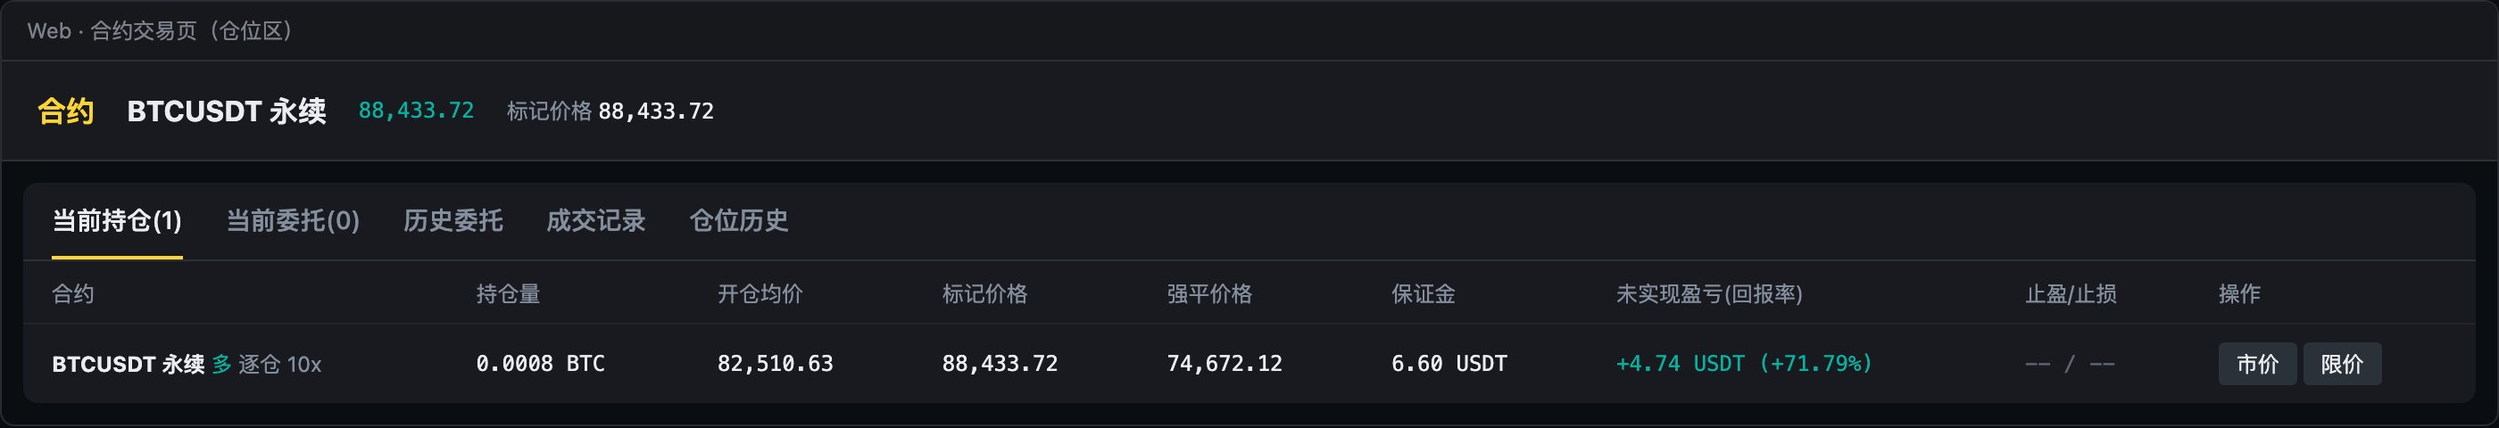
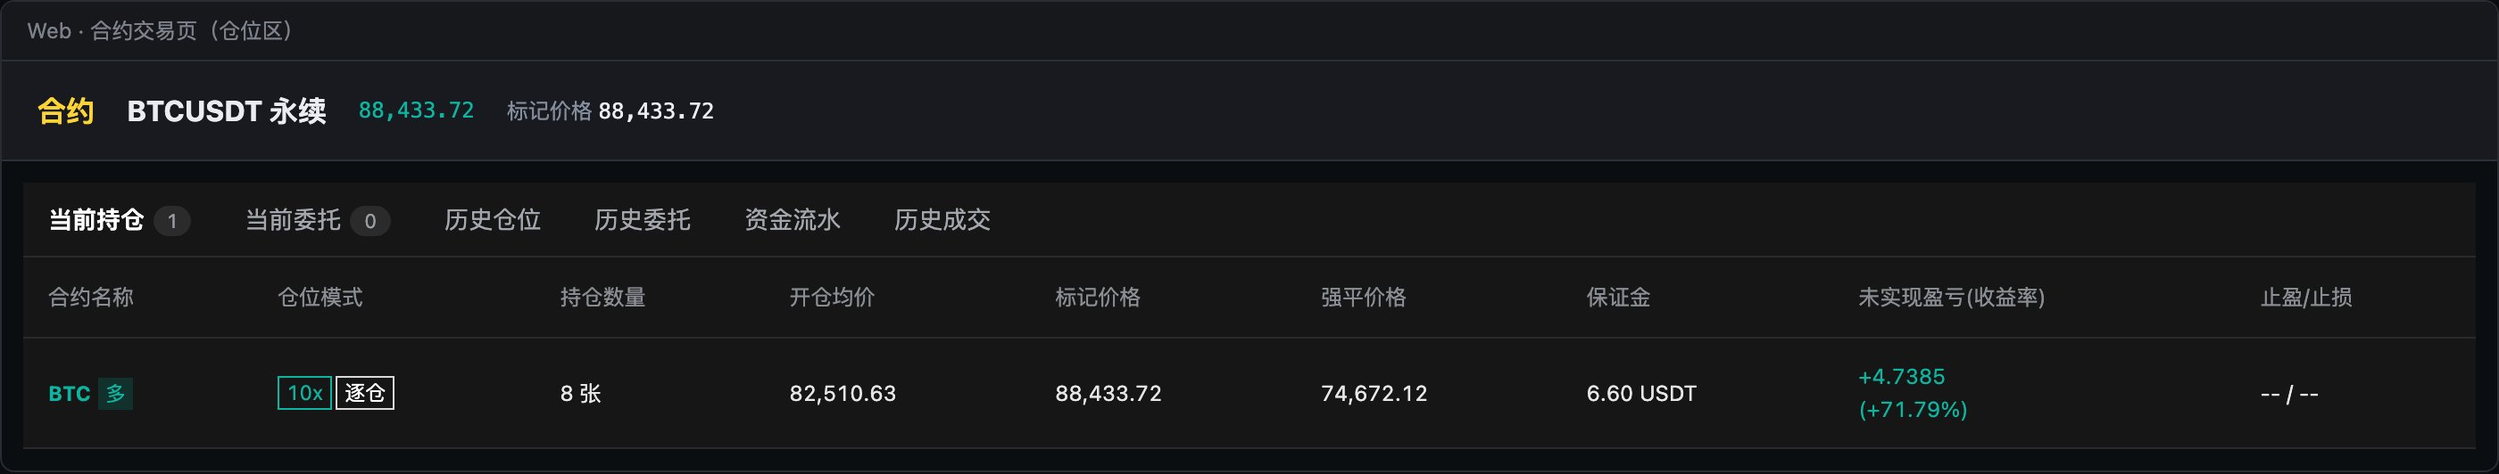
change: Web仓位区按现有页面重做(历史仓位/历史委托三子页签/资金流水/历史成交),止盈止损被撤状态'因ADL撤销';PRD V1.9 同步并扩充Web截图

diff --git a/1009-中台ADL减仓.html b/1009-中台ADL减仓.html
@@ -196,6 +196,33 @@ table.grid{border-collapse:separate;border-spacing:0;min-width:2900px;width:100%
 .u-warn{color:#f0b44a;background:#2e2410;border:1px dashed #8a6a1f;border-radius:3px;padding:0 5px;font-size:11px;white-space:nowrap}
 .side-tag-l{color:var(--up)}.side-tag-s{color:var(--down)}
 
+
+/* ===== Web 仓位区：按现有 Web 截图 ===== */
+.e-web .u-panel{background:#161616;border-radius:0;margin:0}
+.e-web .u-tabs{gap:30px;height:42px;align-items:center;border-bottom:1px solid #2a2a2a;padding:0 14px}
+.e-web .u-tabs button{font-size:13.5px;color:#a3a6ad;padding:0;border:none;font-weight:400}
+.e-web .u-tabs button.on{color:#fff;font-weight:700;border:none}
+.e-web .u-tabs .bdg{display:inline-block;margin-left:5px;background:#2b2b2b;color:#9a9da3;font-size:11px;border-radius:9px;padding:0 8px;line-height:17px;font-weight:400}
+.wsub{display:flex;border-bottom:1px solid #2a2a2a}
+.wsub button{padding:9px 16px;font-size:13px;color:#a3a6ad;border-right:1px solid #2a2a2a}
+.wsub button.on{background:#232323;color:#fff;font-weight:700}
+.wt{width:100%;border-collapse:collapse;font-size:12px}
+.wt th{color:#8a8d93;font-weight:400;text-align:left;padding:14px 14px;border-bottom:1px solid #2a2a2a;white-space:nowrap}
+.wt td{color:#e6e6e6;padding:12px 14px;border-bottom:1px solid #2a2a2a;white-space:nowrap;vertical-align:middle;line-height:1.55;font-variant-numeric:tabular-nums}
+.wt tr.hl td{background:rgba(243,154,55,.05)}
+.wt .sym{font-weight:700;color:#0fb4a0;font-size:11.5px}
+.wt .sym.s{color:#8e63df}
+.wt .sd{display:inline-block;margin-left:4px;font-size:11.5px;padding:0 4px;line-height:18px;background:#12302c;color:#0fb4a0}
+.wt .sd.s{background:#2a2142;color:#8e63df}
+.wt .lev{display:inline-block;border:1px solid #0fb4a0;color:#0fb4a0;font-size:11.5px;padding:0 4px;line-height:17px}
+.wt .lev.s{border-color:#8e63df;color:#8e63df}
+.wt .mode{display:inline-block;border:1px solid #d9d9d9;color:#fff;font-size:11.5px;padding:0 4px;line-height:17px;margin-left:2px}
+.wt .up{color:#0fb4a0}.wt .dn{color:#8e63df}
+.wt .cp{color:#526fff;margin-left:4px;font-size:11px}
+.wt .ic{color:#8a8d93;font-size:10px;margin-left:3px}
+.wt .det{border:1px solid #d9d9d9;color:#fff;padding:5px 12px;font-size:12px;background:transparent}
+.wt .pct{color:#0fb4a0}
+.wt .adl-chip{margin-left:4px}
 /* ===== 用户端 App ===== */
 .a-root{background:#0b0c0f;min-height:100vh;padding:16px 20px 60px;min-width:1280px;color:#e8e9ec;font-size:12px}
 .a-wrap{display:flex;gap:28px;align-items:flex-start;justify-content:center}
@@ -420,7 +447,7 @@ table.grid{border-collapse:separate;border-spacing:0;min-width:2900px;width:100%
    </div>
    <div class="u-panel">
     <div class="u-tabs" id="uTabs">
-     <button data-t="pos" class="on">当前持仓</button><button data-t="open">当前委托</button><button data-t="hist">历史委托</button><button data-t="fill">成交记录</button><button data-t="phist">仓位历史</button>
+     <button data-t="pos" class="on">当前持仓</button><button data-t="open">当前委托</button><button data-t="phist">历史仓位</button><button data-t="hist">历史委托</button><button data-t="flow">资金流水</button><button data-t="fill">历史成交</button>
     </div>
     <div id="uBody" style="overflow-x:auto"></div>
    </div>
@@ -753,7 +780,7 @@ const A={entry:82510.63,mark:88433.72,lev:10,mmr:0.005,cs:0.0001};
 const AS={before:{z:108,light:5,ord:1},partial:{z:8,light:5,ord:0},full:{z:0,light:0,ord:0}};
 const ADLZ={partial:100,full:108};
 const TIP_U='<span class="tip">自动减仓（ADL）：系统按标记价格减少您的部分或全部仓位，本次减仓不收取手续费，减仓后您可随时重新开仓。<br><span class="u-warn">⚠ 文案 / 客服口径待确认（Q9）</span></span>';
-let aState='before',aHTab='ord',uT='pos';
+let aState='before',aHTab='ord',uT='pos',uSub='lm';
 const af=(n,d=2)=>Number(n).toLocaleString('en-US',{minimumFractionDigits:d,maximumFractionDigits:d});
 const bz=z=>+(z*A.cs).toFixed(6);
 function pm(z){const q=bz(z),val=q*A.mark,margin=A.entry*q/A.lev,up=(A.mark-A.entry)*q;return{q,val,margin,up,roe:up/margin*100,liq:A.entry*(1-1/A.lev+A.mmr),mr:(margin+up)/(val*A.mmr)*100}}
@@ -815,25 +842,42 @@ function aHRender(){
   $('aHBody').innerHTML=H[aHTab];
 }
 function uRender(){
-  const st=AS[aState],done=aState!=='before',z=ADLZ[aState]||0,pnl=(A.mark-A.entry)*bz(z),m=pm(st.z);
-  document.querySelectorAll('#uTabs button').forEach(b=>{b.classList.toggle('on',b.dataset.t===uT);if(b.dataset.t==='pos')b.textContent=`当前持仓(${st.z?1:0})`;if(b.dataset.t==='open')b.textContent=`当前委托(${st.ord})`});
+  const st=AS[aState],done=aState!=='before',z=ADLZ[aState]||0,q=bz(z),pnl=(A.mark-A.entry)*q,roe=(A.mark-A.entry)/A.entry*A.lev*100,m=pm(st.z),T='2026-10-09 13:40:12',full=aState==='full';
+  const NM={pos:'当前持仓',open:'当前委托',phist:'历史仓位',hist:'历史委托',flow:'资金流水',fill:'历史成交'};
+  document.querySelectorAll('#uTabs button').forEach(b=>{const t=b.dataset.t;b.classList.toggle('on',t===uT);b.innerHTML=NM[t]+(t==='pos'?`<span class="bdg">${st.z?1:0}</span>`:t==='open'?`<span class="bdg">${st.ord}</span>`:'')});
   const chip=t=>`<span class="adl-chip">${t} ⓘ${TIP_U}</span>`;
   const empty=t=>`<div class="u-empty"><div style="font-size:28px">📄</div>${t}</div>`;
+  const sym=(sd,cls='')=>`<span class="sym ${cls}">BTC</span><span class="sd ${cls}">${sd}</span>`;
+  const lev=(x,cls='')=>`<span class="lev ${cls}">${x}x</span><span class="mode">逐仓</span>`;
+  const cp=id=>`${id}<span class="cp">⧉</span>`;
   let h='';
-  if(uT==='pos'){h=st.z?`<table class="u-tbl"><thead><tr><th>合约</th><th>持仓量</th><th>开仓均价</th><th>标记价格</th><th>强平价格</th><th>保证金</th><th>未实现盈亏(回报率)</th><th>止盈/止损</th><th>操作</th></tr></thead><tbody><tr>
-     <td><b>BTCUSDT 永续</b> <span class="side-tag-l">多</span> <span style="color:var(--tx2)">逐仓 10x</span></td><td class="num">${bz(st.z)} BTC</td><td class="num">${af(A.entry)}</td><td class="num">${af(A.mark)}</td><td class="num">${af(m.liq)}</td><td class="num">${af(m.margin)} USDT</td>
-     <td class="num u-up">+${af(m.up)} USDT (+${af(m.roe)}%)</td><td class="num" style="color:${st.ord?'var(--tx)':'var(--tx3)'}">${st.ord?'95,000.00 / --':'-- / --'}</td><td><button class="u-btn">市价</button> <button class="u-btn">限价</button></td></tr></tbody></table>`:empty('暂无持仓')}
-  if(uT==='open'){h=st.ord?`<table class="u-tbl"><thead><tr><th>时间</th><th>合约</th><th>类型</th><th>方向</th><th>触发价</th><th>数量</th><th>操作</th></tr></thead><tbody><tr><td class="num">2026-10-02 09:16:02</td><td>BTCUSDT 永续</td><td>止盈</td><td class="side-tag-s">平多</td><td class="num">95,000.00</td><td class="num">0.0108 BTC</td><td><span class="u-link">撤单</span></td></tr></tbody></table>`:empty('暂无委托')}
-  if(uT==='hist'){h=`<table class="u-tbl"><thead><tr><th>时间</th><th>合约</th><th>订单类型</th><th>方向</th><th>委托价</th><th>成交均价</th><th>委托量</th><th>成交量</th><th>状态</th></tr></thead><tbody>
-     ${done?`<tr class="hl"><td class="num">2026-10-09 13:40:12</td><td>BTCUSDT 永续</td><td>${chip('ADL')}</td><td class="side-tag-s">平多</td><td class="num">--</td><td class="num">${af(A.mark)}</td><td class="num">${bz(z)} BTC</td><td class="num">${bz(z)} BTC</td><td>已成交</td></tr>
-     <tr><td class="num">2026-10-09 13:40:12</td><td>BTCUSDT 永续</td><td>止盈</td><td class="side-tag-s">平多</td><td class="num">95,000.00</td><td class="num">--</td><td class="num">0.0108 BTC</td><td class="num">0 BTC</td><td>已撤销 <span style="color:var(--adl)">· 因 ADL</span></td></tr>`:''}
-     <tr><td class="num">2026-10-02 09:15:40</td><td>BTCUSDT 永续</td><td>市价</td><td class="side-tag-l">开多</td><td class="num">--</td><td class="num">${af(A.entry)}</td><td class="num">0.0108 BTC</td><td class="num">0.0108 BTC</td><td>已成交</td></tr></tbody></table>`}
-  if(uT==='fill'){h=`<table class="u-tbl"><thead><tr><th>时间</th><th>合约</th><th>订单类型</th><th>方向</th><th>成交价</th><th>成交量</th><th>手续费</th><th>角色</th><th>已实现盈亏</th></tr></thead><tbody>
-     ${done?`<tr class="hl"><td class="num">2026-10-09 13:40:12</td><td>BTCUSDT 永续</td><td>${chip('ADL')}</td><td class="side-tag-s">平多</td><td class="num">${af(A.mark)}</td><td class="num">${bz(z)} BTC</td><td class="num">0 USDT</td><td style="color:var(--tx3)">--</td><td class="num u-up">+${af(pnl)} USDT</td></tr>`:''}
-     <tr><td class="num">2026-10-02 09:15:40</td><td>BTCUSDT 永续</td><td>市价</td><td class="side-tag-l">开多</td><td class="num">${af(A.entry)}</td><td class="num">0.0108 BTC</td><td class="num">0.4456 USDT</td><td>Taker</td><td class="num">--</td></tr></tbody></table>`}
-  if(uT==='phist'){h=done?`<table class="u-tbl"><thead><tr><th>合约</th><th>平仓类型</th><th>开仓时间</th><th>平仓时间</th><th>开仓均价</th><th>平仓均价</th><th>已平仓量 / 最大持仓</th><th>平仓盈亏</th></tr></thead><tbody>
-     <tr class="hl"><td><b>BTCUSDT 永续</b> <span class="side-tag-l">多</span></td><td>${chip(aState==='full'?'ADL 全部平仓':'ADL 部分减仓')}</td><td class="num">2026-10-02 09:15:40</td><td class="num">${aState==='full'?'2026-10-09 13:40:12':'--'}</td><td class="num">${af(A.entry)}</td><td class="num">${af(A.mark)}</td><td class="num">${bz(z)} / 0.0108 BTC</td><td class="num u-up">+${af(pnl)} USDT</td></tr></tbody></table>
-     ${aState==='partial'?'<div style="padding:8px 16px;color:var(--tx3)">部分减仓时「平仓时间」显示 --，仓位全部平掉后补全</div>':''}`:empty('暂无仓位历史')}
+  if(uT==='pos'){h=st.z?`<table class="wt"><thead><tr><th>合约名称</th><th>仓位模式</th><th>持仓数量</th><th>开仓均价</th><th>标记价格</th><th>强平价格</th><th>保证金</th><th>未实现盈亏(收益率)</th><th>止盈/止损</th></tr></thead><tbody><tr>
+     <td>${sym('多')}</td><td>${lev(10)}</td><td>${st.z} 张</td><td>${af(A.entry)}</td><td>${af(A.mark)}</td><td>${af(m.liq)}</td><td>${af(m.margin)} USDT</td>
+     <td class="up">+${af(m.up,4)}<br>(+${af(m.roe)}%)</td><td>${st.ord?'止盈: <span class="up">95,000</span><br>止损: --':'-- / --'}</td></tr></tbody></table>`:empty('暂无持仓')}
+  if(uT==='open'){h=st.ord?`<table class="wt"><thead><tr><th>合约名称</th><th>委托时间</th><th>成交数量/委托数量</th><th>委托价格</th><th>订单状态</th><th>订单 ID</th></tr></thead><tbody><tr>
+     <td>${sym('开多')}</td><td>2026-10-02 09:16:02</td><td><span class="pct">0 张(0%)</span><br>108 张</td><td>止盈: <span class="up">95,000</span><br>止损: --</td><td>等待触发</td><td>${cp('678732202145783808')}</td></tr></tbody></table>`:empty('暂无委托')}
+  if(uT==='phist'){
+    const adlRow=done?`<tr class="hl"><td>${sym('多')}${chip(full?'ADL 全部平仓':'ADL 部分减仓')}</td><td>${lev(10)}</td><td>2026-10-02 09:15:40<br>${full?T:'--'}</td><td>${af(A.entry)}<br>${af(A.mark)}</td>
+       <td class="up">+${pnl.toFixed(4)}<span class="ic">↗</span><br>(+${roe.toFixed(2)}%)</td><td>${q} BTC<br>0.0108 BTC</td></tr>`:'';
+    h=`<table class="wt"><thead><tr><th>合约名称</th><th>仓位模式</th><th>开仓时间/平仓时间</th><th>开仓均价/平仓均价</th><th>已实现盈亏/盈亏率</th><th>已平仓量/持仓数量</th></tr></thead><tbody>${adlRow}
+       <tr><td>${sym('多')}</td><td>${lev(26)}</td><td>2026-03-30 06:49:18<br>2026-06-04 08:24:51</td><td>65,000<br>63,978.49</td><td class="dn">-2.1451<span class="ic">↗</span><br>(-40.85%)</td><td>0.0021 BTC<br>0.0021 BTC</td></tr>
+       <tr><td>${sym('空','s')}</td><td>${lev(26,'s')}</td><td>2026-03-02 10:57:00<br>2026-03-02 23:15:26</td><td>66,323.89<br>68,561.33</td><td class="dn">-2.2374<span class="ic">↗</span><br>(-87.7%)</td><td>0.001 BTC<br>0.001 BTC</td></tr></tbody></table>`}
+  if(uT==='hist'){
+    const sub=`<div class="wsub">${[['lm','限价&市价'],['tpsl','止盈止损'],['plan','计划委托']].map(([k,n])=>`<button data-s="${k}" class="${k===uSub?'on':''}" onclick="uSub='${k}';uRender()">${n}</button>`).join('')}</div>`;
+    let t='';
+    if(uSub==='lm'){t=`<table class="wt"><thead><tr><th>合约名称</th><th>仓位模式</th><th>委托时间</th><th>订单类型</th><th>成交数量/委托数量</th><th>成交均价</th><th>触发条件</th><th>委托价格</th><th>平仓盈亏</th><th>手续费</th><th>订单状态</th><th>订单 ID</th><th>操作</th></tr></thead><tbody>
+       ${done?`<tr class="hl"><td>${sym('平多','s')}</td><td>${lev(10)}</td><td>${T}</td><td>${chip('ADL')}</td><td><span class="pct">${q} BTC(100%)</span><br>${q} BTC</td><td>${af(A.mark)}</td><td>--</td><td>--</td><td class="up">+${pnl.toFixed(4)}</td><td>0</td><td>全部成交</td><td>${cp('678732191894668611')}</td><td><button class="det">详情</button></td></tr>`:''}
+       <tr><td>${sym('开多')}</td><td>${lev(10)}</td><td>2026-10-02 09:15:40</td><td>市价</td><td><span class="pct">108 张(100%)</span><br>108 张</td><td>${af(A.entry)}</td><td>--</td><td>市价</td><td>--</td><td>0.4456</td><td>全部成交</td><td>${cp('678732191894668544')}</td><td><button class="det">详情</button></td></tr></tbody></table>`}
+    if(uSub==='tpsl'){t=done?`<table class="wt"><thead><tr><th>合约名称</th><th>委托时间</th><th>成交数量/委托数量</th><th>委托价格</th><th>订单状态</th><th>订单 ID</th></tr></thead><tbody>
+       <tr class="hl"><td>${sym('开多')}</td><td>2026-10-02 09:16:02</td><td><span class="pct">0 张(0%)</span><br>108 张</td><td>止盈: <span class="up">95,000</span><br>止损: --</td><td>因 ADL 撤销</td><td>${cp('678732202145783808')}</td></tr></tbody></table>`:empty('暂无记录')}
+    if(uSub==='plan'){t=empty('暂无记录（本期无改动）')}
+    h=sub+t}
+  if(uT==='flow'){h=`<div style="padding:8px 14px;color:#d8c58a;font-size:12px;border-bottom:1px dashed #4d4220">原型标注：资金流水本期不改动，ADL 不产生资金流水记录（R20）。</div><table class="wt"><thead><tr><th>时间</th><th>币种</th><th>数量</th><th>类型 ▽</th><th>交易品种</th><th>订单 ID</th></tr></thead><tbody>
+     <tr><td>2026-10-09 08:00:00</td><td>USDT</td><td class="dn">-0.00750000</td><td>资金费用</td><td>BTCUSDT</td><td>${cp('679733940931543306')}</td></tr>
+     <tr><td>2026-10-09 00:00:00</td><td>USDT</td><td class="dn">-0.00080000</td><td>资金费用</td><td>BTCUSDT</td><td>${cp('679613146448544010')}</td></tr></tbody></table>`}
+  if(uT==='fill'){h=`<table class="wt"><thead><tr><th>交易品种</th><th>成交价格</th><th>成交数量</th><th>手续费</th><th>时间</th><th>成交 ID</th></tr></thead><tbody>
+     ${done?`<tr class="hl"><td>BTCUSDT${chip('ADL')}</td><td>${af(A.mark)}</td><td>${q} BTC</td><td>0</td><td>${T}</td><td>${cp('678732192808960111')}</td></tr>`:''}
+     <tr><td>BTCUSDT</td><td>${af(A.entry)}</td><td>108 张</td><td>0.4456</td><td>2026-10-02 09:15:40</td><td>${cp('678732192808960066')}</td></tr></tbody></table>`}
   $('uBody').innerHTML=h;
 }
 document.querySelectorAll('#aSt button').forEach(b=>b.onclick=()=>{aState=b.dataset.s;aRender()});

diff --git a/中台ADL减仓_PRD_V1.0.html b/中台ADL减仓_PRD_V1.0.html
@@ -74,7 +74,7 @@
 
 <div class="cover">
   <h1>中台 ADL 减仓 PRD</h1>
-  <div class="ver">版本 V1.8 · 2026-10-12 · 修订人 Rhys</div>
+  <div class="ver">版本 V1.9 · 2026-10-12 · 修订人 Rhys</div>
   <div class="sub">需求类型：0→1 · 规模 L ｜ 配套原型：<a href="https://forclaudecode.vercel.app/1009-中台ADL减仓.html">1009-中台ADL减仓.html</a> ｜ 规则来源：规则台账_ADL减仓 v1.0（R01–R19）</div>
 </div>
 
@@ -303,16 +303,15 @@ flowchart LR
 </table>
 
 <h4>3.3.5 用户端 · App / Web</h4>
-<p><strong>App · 合约页持仓区</strong>（ADL 前 → 部分 ADL 后 → 全部 ADL 后；虚线框为变化项，原型标注，非实际 UI）＋ <strong>App · 交易记录</strong>（部分 ADL 后：历史委托 / 历史仓位 / 交易历史 / 资金流水）</p><div class="phones"><figure class="fig"><img src="中台ADL减仓_PRD_assets/11_app_before.jpg" alt="图 7　ADL 前" loading="lazy"><figcaption>图 7　ADL 前</figcaption></figure><figure class="fig"><img src="中台ADL减仓_PRD_assets/12_app_partial.jpg" alt="图 8　部分 ADL 后" loading="lazy"><figcaption>图 8　部分 ADL 后</figcaption></figure><figure class="fig"><img src="中台ADL减仓_PRD_assets/13_app_full.jpg" alt="图 9　全部 ADL 后" loading="lazy"><figcaption>图 9　全部 ADL 后</figcaption></figure><figure class="fig"><img src="中台ADL减仓_PRD_assets/14_app_partial_hist.jpg" alt="图 10　交易记录 · 历史委托" loading="lazy"><figcaption>图 10　交易记录 · 历史委托</figcaption></figure><figure class="fig"><img src="中台ADL减仓_PRD_assets/15_app_partial_pos.jpg" alt="图 10-1　交易记录 · 历史仓位" loading="lazy"><figcaption>图 10-1　交易记录 · 历史仓位</figcaption></figure><figure class="fig"><img src="中台ADL减仓_PRD_assets/16_app_partial_fill.jpg" alt="图 10-2　交易记录 · 交易历史" loading="lazy"><figcaption>图 10-2　交易记录 · 交易历史</figcaption></figure><figure class="fig"><img src="中台ADL减仓_PRD_assets/17_app_flow.jpg" alt="图 10-3　交易记录 · 资金流水（不改动）" loading="lazy"><figcaption>图 10-3　交易记录 · 资金流水（不改动）</figcaption></figure></div><p><strong>Web</strong></p><figure class="fig"><img src="中台ADL减仓_PRD_assets/07_web_before.jpg" alt="图 11　ADL 前 · 当前持仓（含止盈 95,000）" loading="lazy"><figcaption>图 11　ADL 前 · 当前持仓（含止盈 95,000）</figcaption></figure><figure class="fig"><img src="中台ADL减仓_PRD_assets/08_web_partial.jpg" alt="图 12　部分 ADL 后 · 当前持仓：数量变为 0.0008 BTC，止盈被撤，无任何 ADL 标记" loading="lazy"><figcaption>图 12　部分 ADL 后 · 当前持仓：数量变为 0.0008 BTC，止盈被撤，无任何 ADL 标记</figcaption></figure><figure class="fig"><img src="中台ADL减仓_PRD_assets/09_web_partial_hist.jpg" alt="图 13　部分 ADL 后 · 历史委托：ADL 记录 + 「已撤销 · 因 ADL」" loading="lazy"><figcaption>图 13　部分 ADL 后 · 历史委托：ADL 记录 + 「已撤销 · 因 ADL」</figcaption></figure><figure class="fig"><img src="中台ADL减仓_PRD_assets/10_web_full_phist.jpg" alt="图 14　全部 ADL 后 · 仓位历史：「ADL 全部平仓」" loading="lazy"><figcaption>图 14　全部 ADL 后 · 仓位历史：「ADL 全部平仓」</figcaption></figure>
-<p>App 与 Web 规则一致，页面名称不同：App「交易记录」页的页签为 历史委托 / 历史仓位 / 资金流水 / 交易历史，Web 为 历史委托 / 成交记录 / 仓位历史。以下以一笔 0.0108 BTC 的多仓被减 0.01 BTC 为例。ADL 记录中的数量统一用币单位（R19）；同页其他记录保持各端现有单位（App 现有为 USDT）。</p>
+<p><strong>App · 合约页持仓区</strong>（ADL 前 → 部分 ADL 后 → 全部 ADL 后；虚线框为变化项，原型标注，非实际 UI）＋ <strong>App · 交易记录</strong>（部分 ADL 后：历史委托 / 历史仓位 / 交易历史 / 资金流水）</p><div class="phones"><figure class="fig"><img src="中台ADL减仓_PRD_assets/11_app_before.jpg" alt="图 7　ADL 前" loading="lazy"><figcaption>图 7　ADL 前</figcaption></figure><figure class="fig"><img src="中台ADL减仓_PRD_assets/12_app_partial.jpg" alt="图 8　部分 ADL 后" loading="lazy"><figcaption>图 8　部分 ADL 后</figcaption></figure><figure class="fig"><img src="中台ADL减仓_PRD_assets/13_app_full.jpg" alt="图 9　全部 ADL 后" loading="lazy"><figcaption>图 9　全部 ADL 后</figcaption></figure><figure class="fig"><img src="中台ADL减仓_PRD_assets/14_app_partial_hist.jpg" alt="图 10　交易记录 · 历史委托" loading="lazy"><figcaption>图 10　交易记录 · 历史委托</figcaption></figure><figure class="fig"><img src="中台ADL减仓_PRD_assets/15_app_partial_pos.jpg" alt="图 10-1　交易记录 · 历史仓位" loading="lazy"><figcaption>图 10-1　交易记录 · 历史仓位</figcaption></figure><figure class="fig"><img src="中台ADL减仓_PRD_assets/16_app_partial_fill.jpg" alt="图 10-2　交易记录 · 交易历史" loading="lazy"><figcaption>图 10-2　交易记录 · 交易历史</figcaption></figure><figure class="fig"><img src="中台ADL减仓_PRD_assets/17_app_flow.jpg" alt="图 10-3　交易记录 · 资金流水（不改动）" loading="lazy"><figcaption>图 10-3　交易记录 · 资金流水（不改动）</figcaption></figure></div><p><strong>Web · 合约页仓位区</strong>（页签：当前持仓 / 当前委托 / 历史仓位 / 历史委托〔限价&amp;市价 · 止盈止损 · 计划委托〕/ 资金流水 / 历史成交）</p><figure class="fig"><img src="中台ADL减仓_PRD_assets/07_web_before.jpg" alt="图 11　ADL 前 · 当前持仓（止盈 95,000）" loading="lazy"><figcaption>图 11　ADL 前 · 当前持仓（止盈 95,000）</figcaption></figure><figure class="fig"><img src="中台ADL减仓_PRD_assets/08_web_partial.jpg" alt="图 12　部分 ADL 后 · 当前持仓：数量变为 8 张，止盈被撤，无任何 ADL 标记" loading="lazy"><figcaption>图 12　部分 ADL 后 · 当前持仓：数量变为 8 张，止盈被撤，无任何 ADL 标记</figcaption></figure><figure class="fig"><img src="中台ADL减仓_PRD_assets/18_web_partial_phist.jpg" alt="图 13　部分 ADL 后 · 历史仓位：「ADL 部分减仓」，平仓时间「--」" loading="lazy"><figcaption>图 13　部分 ADL 后 · 历史仓位：「ADL 部分减仓」，平仓时间「--」</figcaption></figure><figure class="fig"><img src="中台ADL减仓_PRD_assets/09_web_partial_hist.jpg" alt="图 14　部分 ADL 后 · 历史委托 · 限价&市价：订单类型「ADL」" loading="lazy"><figcaption>图 14　部分 ADL 后 · 历史委托 · 限价&市价：订单类型「ADL」</figcaption></figure><figure class="fig"><img src="中台ADL减仓_PRD_assets/19_web_partial_tpsl.jpg" alt="图 15　部分 ADL 后 · 历史委托 · 止盈止损：订单状态「因 ADL 撤销」" loading="lazy"><figcaption>图 15　部分 ADL 后 · 历史委托 · 止盈止损：订单状态「因 ADL 撤销」</figcaption></figure><figure class="fig"><img src="中台ADL减仓_PRD_assets/20_web_partial_fill.jpg" alt="图 16　部分 ADL 后 · 历史成交：「ADL」标签，手续费 0" loading="lazy"><figcaption>图 16　部分 ADL 后 · 历史成交：「ADL」标签，手续费 0</figcaption></figure><figure class="fig"><img src="中台ADL减仓_PRD_assets/10_web_full_phist.jpg" alt="图 17　全部 ADL 后 · 历史仓位：「ADL 全部平仓」" loading="lazy"><figcaption>图 17　全部 ADL 后 · 历史仓位：「ADL 全部平仓」</figcaption></figure><p>App 与 Web 规则一致，页面名称不同：App「交易记录」页的页签为 历史委托 / 历史仓位 / 资金流水 / 交易历史，Web 为 历史仓位 / 历史委托（限价&amp;市价 · 止盈止损 · 计划委托）/ 资金流水 / 历史成交。以下以一笔 0.0108 BTC 的多仓被减 0.01 BTC 为例。ADL 记录中的数量统一用币单位（R19）；同页其他记录保持各端现有单位（App 现有为 USDT）。</p>
 <table>
   <tr><th>位置</th><th>部分 ADL 后</th><th>全部 ADL 后</th></tr>
   <tr><td>当前持仓</td><td>仓位仍在，数量变为 0.0008 BTC。未实现盈亏、保证金按剩余部分显示；开仓均价、收益率不变。<strong>不加任何 ADL 标记</strong>。指示灯按现有逻辑重新计算。</td><td>仓位消失；无其他仓位时显示「暂无持仓」。</td></tr>
   <tr><td>当前委托</td><td>该仓位的平仓类挂单全部消失，委托数相应减少。</td><td>同左。</td></tr>
-  <tr><td>历史委托</td><td colspan="2"><strong>App</strong>：新增一张卡片，标题 BTC_USDT，状态「已成交」；标签「卖出（平多）/ 买入（平空）· 逐仓 / 全仓 · 杠杆 · ADL」；「已成交/总数量(BTC)」如 0.01/0.01，进度条满；委托价格「--」；委托时间为执行时间。被撤的平仓挂单状态显示「已撤销 · 因 ADL」。<br><strong>Web</strong>：订单类型显示「ADL」标签，方向「平多 / 平空」，委托价「--」，成交均价为标记价格，数量用币单位，状态「已成交」；被撤挂单状态「已撤销 · 因 ADL」。</td></tr>
-  <tr><td>交易历史（App）/ 成交记录（Web）</td><td colspan="2"><strong>App</strong>：卡片标题 BTCUSDT 旁加「ADL」标签；交易品种、成交数量（如 0.01 BTC）、手续费 0、成交价格（执行时标记价格）、时间、成交ID。<br><strong>Web</strong>：「ADL」标签，成交价为标记价格，数量用币单位，手续费 0，角色「--」，显示已实现盈亏。</td></tr>
-  <tr><td>历史仓位（App）/ 仓位历史（Web）</td><td>标签 / 平仓类型「ADL 部分减仓」；平仓均价、平仓数量（如 0.01 BTC）、已实现盈亏 / 收益率、开仓时间；平仓时间显示「--」。</td><td>「ADL 全部平仓」，平仓时间为执行时间。</td></tr>
-  <tr><td>资金流水（App）</td><td colspan="2"><strong>不改动</strong>。ADL 与普通平仓一样，不在资金流水中产生记录（R20）。</td></tr>
+  <tr><td>历史委托</td><td colspan="2"><strong>App</strong>：新增一张卡片，标题 BTC_USDT，状态「已成交」；标签「卖出（平多）/ 买入（平空）· 逐仓 / 全仓 · 杠杆 · ADL」；「已成交/总数量(BTC)」如 0.01/0.01，进度条满；委托价格「--」；委托时间为执行时间。被撤的平仓挂单状态显示「已撤销 · 因 ADL」。<br><strong>Web</strong>：「限价&amp;市价」子页签新增一行：合约名称「BTC 平多 / 平空」，订单类型「ADL」标签，成交数量/委托数量如「0.01 BTC(100%) / 0.01 BTC」，成交均价为执行时标记价格，触发条件、委托价格「--」，平仓盈亏为本次已实现盈亏，手续费 0，订单状态「全部成交」。被撤的止盈止损单在「止盈止损」子页签中，订单状态显示「因 ADL 撤销」（与现有「用户撤销」并列）。「计划委托」不改动。</td></tr>
+  <tr><td>交易历史（App）/ 历史成交（Web）</td><td colspan="2"><strong>App</strong>：卡片标题 BTCUSDT 旁加「ADL」标签；交易品种、成交数量（如 0.01 BTC）、手续费 0、成交价格（执行时标记价格）、时间、成交ID。<br><strong>Web</strong>：交易品种 BTCUSDT 旁加「ADL」标签；成交价格为执行时标记价格；成交数量如 0.01 BTC；手续费 0；时间、成交 ID。</td></tr>
+  <tr><td>历史仓位（App / Web）</td><td>App 标签 / Web 合约名称旁显示「ADL 部分减仓」；平仓均价（Web：开仓均价/平仓均价）、平仓数量（Web：已平仓量/持仓数量，如 0.01 BTC / 0.0108 BTC）、已实现盈亏 / 收益率、开仓时间；平仓时间显示「--」。</td><td>「ADL 全部平仓」，平仓时间为执行时间。</td></tr>
+  <tr><td>资金流水（App / Web）</td><td colspan="2"><strong>不改动</strong>。ADL 与普通平仓一样，不在资金流水中产生记录（R20）。</td></tr>
   <tr><td>「ADL」标签说明</td><td colspan="2">Web 鼠标悬浮 / App 点击「ADL」标签时显示：「自动减仓（ADL）：系统按标记价格减少您的部分或全部仓位，本次减仓不收取手续费，减仓后您可随时重新开仓。」<span class="tag-td">⚠ P17 文案待确认</span></td></tr>
   <tr><td>通知</td><td colspan="2">本期不发站内信、邮件、短信、推送 <span class="tag-td">⚠ P05</span></td></tr>
 </table>
@@ -440,6 +439,7 @@ flowchart LR
   <tr><td>V1.6</td><td>2026-10-11</td><td>初稿（评审前）</td><td>原型左侧导航只保留「当前持仓列表」；图 1、图 5 重截</td><td>PM 反馈</td></tr>
   <tr><td>V1.7</td><td>2026-10-11</td><td>初稿（评审前）</td><td>减仓弹窗：仓位信息中的持仓量 / 可平量、累计已 ADL 改为跟随减仓数量的单位切换；输入框占位文字随单位变化</td><td>PM 反馈</td></tr>
   <tr><td>V1.8</td><td>2026-10-12</td><td>初稿（评审前）</td><td>App 历史按现有「交易记录」页重做（历史委托 / 历史仓位 / 资金流水 / 交易历史，卡片样式与筛选项对齐现有页面）；资金流水明确不改动、ADL 不产生流水记录；5.5 删除「用户流水新增 ADL 类型」；新增图 10-1～10-3</td><td>PM 提供现有 App 交易记录页</td></tr>
+  <tr><td>V1.9</td><td>2026-10-12</td><td>初稿（评审前）</td><td>Web 仓位区按现有页面重做（当前持仓 / 当前委托 / 历史仓位 / 历史委托〔限价&amp;市价 · 止盈止损 · 计划委托〕/ 资金流水 / 历史成交）；被撤止盈止损单状态改为「因 ADL 撤销」；Web 截图扩为图 11–17</td><td>PM 提供现有 Web 页面</td></tr>
 </table>
 
 </div></div>
